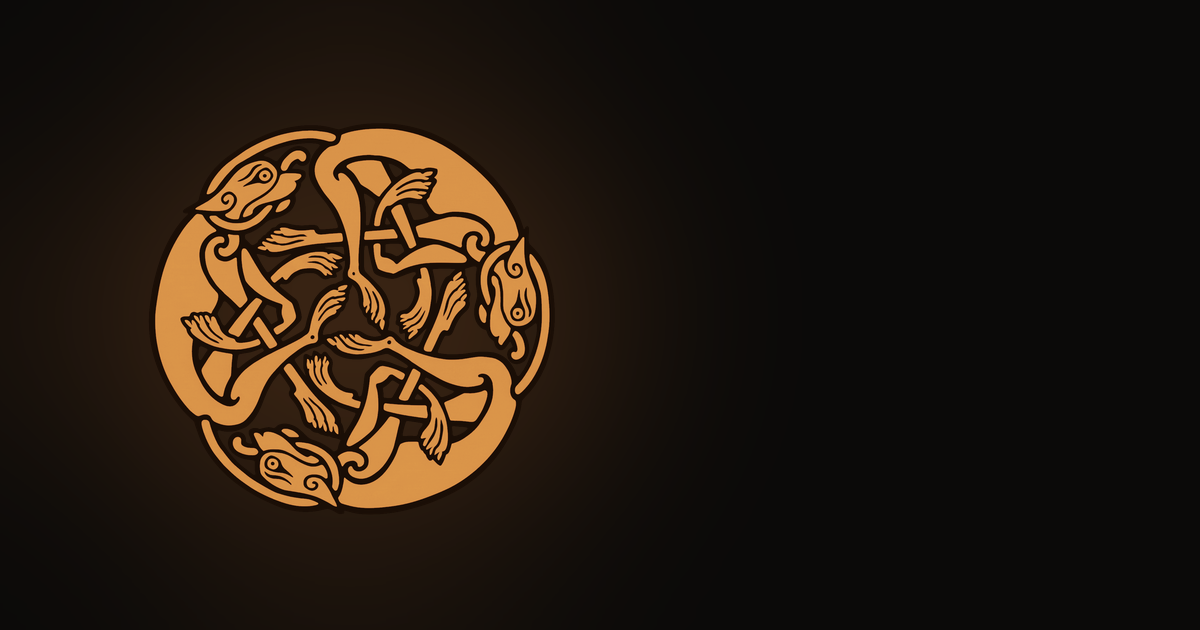
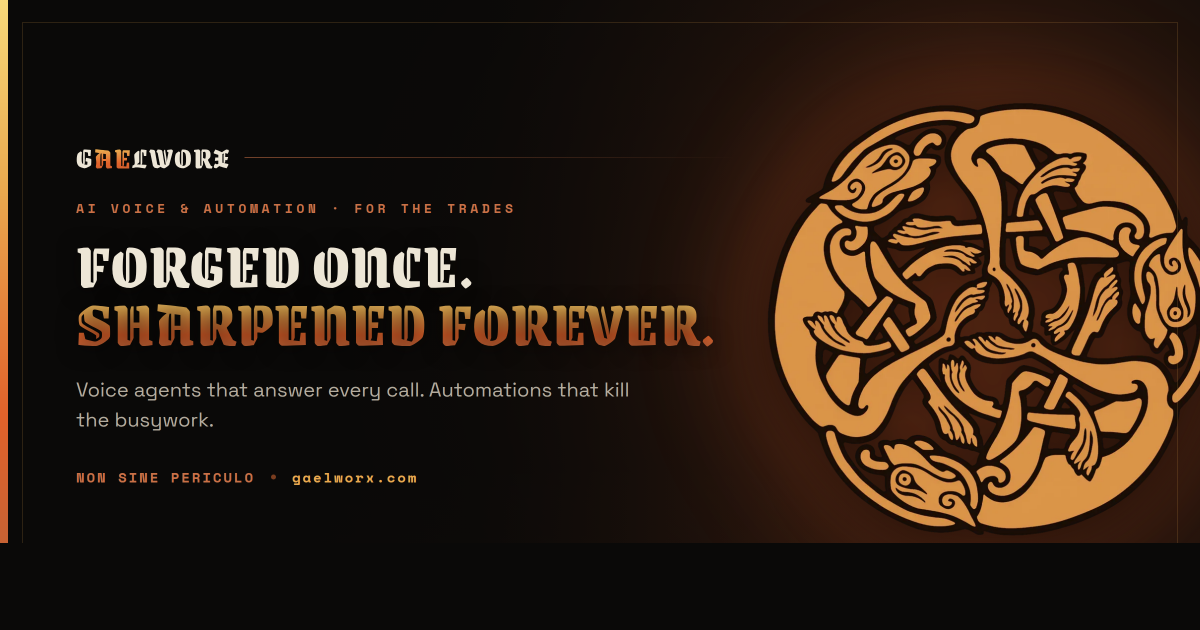
Design a real social card and complete link-preview meta
Replace the placeholder og-card.png (the copper coin floating on an
otherwise empty background, no text) with a designed 1200x630 social
card built from the site's own brand assets:

- Forge palette on near-black, with a warm forge glow behind the coin
- Blackletter GAELWORX wordmark with the molten A/E treatment from the nav
- The "Forged once. Sharpened forever." tagline (ink + molten gold)
- Value-prop line, the "Non sine periculo" motto, and gaelworx.com
- The three-hounds knotwork coin (knot-copper) over the glow
Rendered from the real Grenze Gotisch / Space Grotesk / Space Mono fonts
and coin art, so the card matches the live site exactly.

Also add twitter:image:alt to all 31 pages so the Twitter/X card carries
the same descriptive alt text already present on the Open Graph image.

Claude-Session: https://claude.ai/code/session_01VWUSdsJc6U2JmSnke44jLQ

diff --git a/404.html b/404.html
@@ -20,6 +20,7 @@
 <meta name="twitter:title" content="Lost in the Forge — Gaelworx">
 <meta name="twitter:description" content="This page was never cast, or it's been melted down for something better. The forge is still lit.">
 <meta name="twitter:image" content="https://gaelworx.com/assets/og-card.png">
+<meta name="twitter:image:alt" content="Gaelworx — forge-themed AI automation agency for trades and small businesses">
 <meta name="robots" content="noindex">
 <title>Lost in the Forge — Gaelworx</title>
 <link rel="preload" href="assets/fonts/grenze-gotisch.woff2" as="font" type="font/woff2" crossorigin>

diff --git a/about.html b/about.html
@@ -20,6 +20,7 @@
 <meta name="twitter:title" content="About Gaelworx — AI Automation for Trades & Small Business">
 <meta name="twitter:description" content="NON SINE PERICULO — not without danger. The Latin struck on every Gaelworx coin: we work at forge heat, and the smith carries the burn, not the customer.">
 <meta name="twitter:image" content="https://gaelworx.com/assets/og-card.png">
+<meta name="twitter:image:alt" content="Gaelworx — forge-themed AI automation agency for trades and small businesses">
 <title>About Gaelworx — AI Automation for Trades & Small Business</title>
 <link rel="preload" href="assets/fonts/grenze-gotisch.woff2" as="font" type="font/woff2" crossorigin>
 <link rel="preload" href="assets/fonts/space-grotesk.woff2" as="font" type="font/woff2" crossorigin>

diff --git a/accessibility.html b/accessibility.html
@@ -21,6 +21,7 @@
 <meta name="twitter:title" content="Accessibility Statement (WCAG 2.2 AA) — Gaelworx">
 <meta name="twitter:description" content="Our WCAG 2.2 AA commitment, what is built, and how to reach a human if anything is in your way.">
 <meta name="twitter:image" content="https://gaelworx.com/assets/og-card.png">
+<meta name="twitter:image:alt" content="Gaelworx — forge-themed AI automation agency for trades and small businesses">
 <link rel="preload" href="assets/fonts/grenze-gotisch.woff2" as="font" type="font/woff2" crossorigin>
 <link rel="preload" href="assets/fonts/space-grotesk.woff2" as="font" type="font/woff2" crossorigin>
 <link rel="preload" href="assets/fonts/space-mono-400.woff2" as="font" type="font/woff2" crossorigin>

diff --git a/ai-receptionist-barbershop.html b/ai-receptionist-barbershop.html
@@ -20,6 +20,7 @@
 <meta name="twitter:title" content="AI Receptionist for Barbershops & Salons — Gaelworx">
 <meta name="twitter:description" content="A managed AI receptionist for barbershops and salons: books cuts, runs the walk-in waitlist, and cuts no-shows with reminders. From $899/mo.">
 <meta name="twitter:image" content="https://gaelworx.com/assets/og-card.png">
+<meta name="twitter:image:alt" content="Gaelworx — forge-themed AI automation agency for trades and small businesses">
 <title>AI Receptionist for Barbershops & Salons — Gaelworx</title>
 <link rel="preload" href="assets/fonts/grenze-gotisch.woff2" as="font" type="font/woff2" crossorigin>
 <link rel="preload" href="assets/fonts/space-grotesk.woff2" as="font" type="font/woff2" crossorigin>

diff --git a/ai-receptionist-cannabis-accessories.html b/ai-receptionist-cannabis-accessories.html
@@ -20,6 +20,7 @@
 <meta name="twitter:title" content="AI Receptionist for Smoke Shops & Accessories — Gaelworx">
 <meta name="twitter:description" content="A managed AI receptionist for smoke shops and accessory brands: answers specs and stock, checks shipping, and captures wholesale leads. From $899/mo.">
 <meta name="twitter:image" content="https://gaelworx.com/assets/og-card.png">
+<meta name="twitter:image:alt" content="Gaelworx — forge-themed AI automation agency for trades and small businesses">
 <title>AI Receptionist for Smoke Shops & Accessories — Gaelworx</title>
 <link rel="preload" href="assets/fonts/grenze-gotisch.woff2" as="font" type="font/woff2" crossorigin>
 <link rel="preload" href="assets/fonts/space-grotesk.woff2" as="font" type="font/woff2" crossorigin>

diff --git a/ai-receptionist-classic-cars.html b/ai-receptionist-classic-cars.html
@@ -20,6 +20,7 @@
 <meta name="twitter:title" content="AI Receptionist for Classic Car Dealers — Gaelworx">
 <meta name="twitter:description" content="A managed AI receptionist for classic car dealers: captures serious-buyer calls on a listing, answers spec questions, books viewings. From $899/mo.">
 <meta name="twitter:image" content="https://gaelworx.com/assets/og-card.png">
+<meta name="twitter:image:alt" content="Gaelworx — forge-themed AI automation agency for trades and small businesses">
 <title>AI Receptionist for Classic Car Dealers — Gaelworx</title>
 <link rel="preload" href="assets/fonts/grenze-gotisch.woff2" as="font" type="font/woff2" crossorigin>
 <link rel="preload" href="assets/fonts/space-grotesk.woff2" as="font" type="font/woff2" crossorigin>

diff --git a/ai-receptionist-cost.html b/ai-receptionist-cost.html
@@ -20,6 +20,7 @@
 <meta name="twitter:title" content="How Much Does an AI Receptionist Cost? — Gaelworx">
 <meta name="twitter:description" content="Self-serve AI receptionist tools run $25–$199/mo. A managed AI voice agent — built, tuned, and run for you — starts at $899/mo. Here's the real breakdown.">
 <meta name="twitter:image" content="https://gaelworx.com/assets/og-card.png">
+<meta name="twitter:image:alt" content="Gaelworx — forge-themed AI automation agency for trades and small businesses">
 <title>How Much Does an AI Receptionist Cost? — Gaelworx</title>
 <link rel="preload" href="assets/fonts/grenze-gotisch.woff2" as="font" type="font/woff2" crossorigin>
 <link rel="preload" href="assets/fonts/space-grotesk.woff2" as="font" type="font/woff2" crossorigin>

diff --git a/ai-receptionist-dispensary.html b/ai-receptionist-dispensary.html
@@ -20,6 +20,7 @@
 <meta name="twitter:title" content="AI Receptionist for Cannabis Dispensaries — Gaelworx">
 <meta name="twitter:description" content="A managed AI receptionist for licensed dispensaries: answers menu and order calls, books pickups, and keeps budtenders on the floor. From $899/mo.">
 <meta name="twitter:image" content="https://gaelworx.com/assets/og-card.png">
+<meta name="twitter:image:alt" content="Gaelworx — forge-themed AI automation agency for trades and small businesses">
 <title>AI Receptionist for Cannabis Dispensaries — Gaelworx</title>
 <link rel="preload" href="assets/fonts/grenze-gotisch.woff2" as="font" type="font/woff2" crossorigin>
 <link rel="preload" href="assets/fonts/space-grotesk.woff2" as="font" type="font/woff2" crossorigin>

diff --git a/ai-receptionist-hospitality.html b/ai-receptionist-hospitality.html
@@ -20,6 +20,7 @@
 <meta name="twitter:title" content="AI Receptionist for Food &amp; Hospitality — Gaelworx">
 <meta name="twitter:description" content="A managed AI receptionist for restaurants, cafes, caterers, and small hotels: answers every call during the rush, books the table, and takes the order. From $899/mo.">
 <meta name="twitter:image" content="https://gaelworx.com/assets/og-card.png">
+<meta name="twitter:image:alt" content="Gaelworx — forge-themed AI automation agency for trades and small businesses">
 <title>AI Receptionist for Food &amp; Hospitality — Gaelworx</title>
 <link rel="preload" href="assets/fonts/grenze-gotisch.woff2" as="font" type="font/woff2" crossorigin>
 <link rel="preload" href="assets/fonts/space-grotesk.woff2" as="font" type="font/woff2" crossorigin>

diff --git a/ai-receptionist-hvac.html b/ai-receptionist-hvac.html
@@ -20,6 +20,7 @@
 <meta name="twitter:title" content="AI Receptionist for HVAC Contractors — Gaelworx">
 <meta name="twitter:description" content="A managed AI receptionist for HVAC contractors: answers every no-heat and no-AC call, books service, and flags emergencies for dispatch. From $899/mo.">
 <meta name="twitter:image" content="https://gaelworx.com/assets/og-card.png">
+<meta name="twitter:image:alt" content="Gaelworx — forge-themed AI automation agency for trades and small businesses">
 <title>AI Receptionist for HVAC Contractors — Gaelworx</title>
 <link rel="preload" href="assets/fonts/grenze-gotisch.woff2" as="font" type="font/woff2" crossorigin>
 <link rel="preload" href="assets/fonts/space-grotesk.woff2" as="font" type="font/woff2" crossorigin>

diff --git a/ai-receptionist-landscaping.html b/ai-receptionist-landscaping.html
@@ -20,6 +20,7 @@
 <meta name="twitter:title" content="AI Receptionist for Landscaping Companies — Gaelworx">
 <meta name="twitter:description" content="A managed AI receptionist for landscaping and lawn care crews: answers every call, books estimates, chases no-shows. From $899/mo.">
 <meta name="twitter:image" content="https://gaelworx.com/assets/og-card.png">
+<meta name="twitter:image:alt" content="Gaelworx — forge-themed AI automation agency for trades and small businesses">
 <title>AI Receptionist for Landscaping Companies — Gaelworx</title>
 <link rel="preload" href="assets/fonts/grenze-gotisch.woff2" as="font" type="font/woff2" crossorigin>
 <link rel="preload" href="assets/fonts/space-grotesk.woff2" as="font" type="font/woff2" crossorigin>

diff --git a/ai-receptionist-plumbing.html b/ai-receptionist-plumbing.html
@@ -20,6 +20,7 @@
 <meta name="twitter:title" content="AI Receptionist for Plumbers — Gaelworx">
 <meta name="twitter:description" content="A managed AI receptionist for plumbers: answers every burst-pipe and no-hot-water call, books the job, and flags emergencies for dispatch. From $899/mo.">
 <meta name="twitter:image" content="https://gaelworx.com/assets/og-card.png">
+<meta name="twitter:image:alt" content="Gaelworx — forge-themed AI automation agency for trades and small businesses">
 <title>AI Receptionist for Plumbers — Gaelworx</title>
 <link rel="preload" href="assets/fonts/grenze-gotisch.woff2" as="font" type="font/woff2" crossorigin>
 <link rel="preload" href="assets/fonts/space-grotesk.woff2" as="font" type="font/woff2" crossorigin>